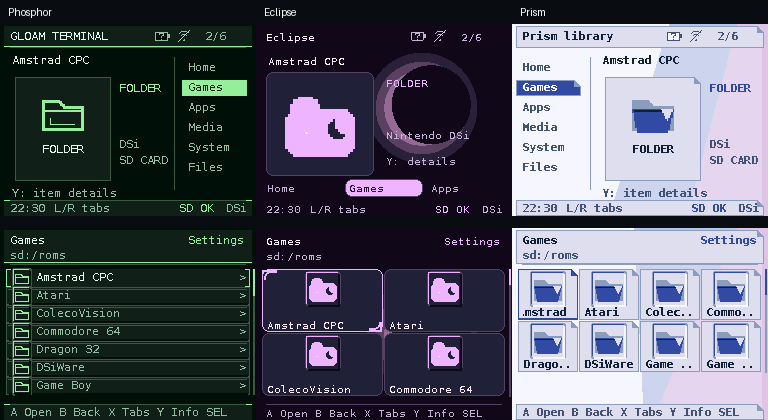
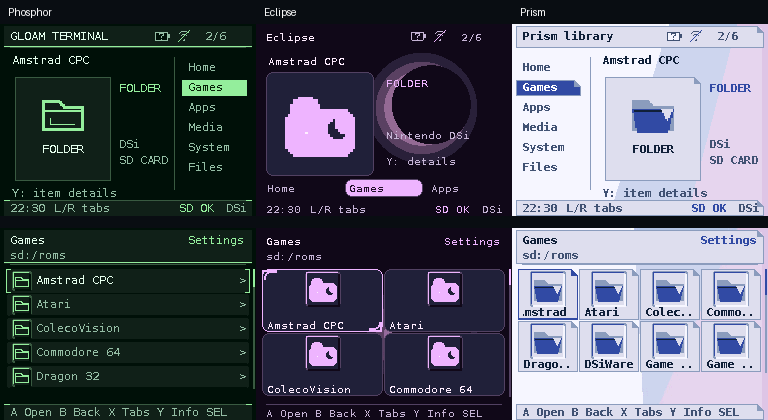
Simplify theme row surfaces and remove stacked selection bevels

Changed region(s): [[0.0, 0.619, 0.3438, 0.9286]]

diff --git a/tools/make_theme_components.py b/tools/make_theme_components.py
@@ -41,6 +41,12 @@ def component_image(name, style, colors):
         draw.line([(1,28),(1,1),(28,1)],fill=accent)
         draw.line([(3,30),(30,30),(30,3)],fill=bg,width=2)
         return image
+    if name == 'row':
+        # Quiet recessed face: avoid stacking several outlines under selection.
+        draw.rounded_rectangle((1,1,30,30), radius=4 if style == 'lunar' else 1,
+                               fill=surface)
+        draw.line((4,30,28,30),fill=bg)
+        return image
     selected = name in ('row-selected', 'card-selected')
     fill = accent if name == 'tab-selected' else surface
     edge = accent if selected or name == 'panel' else line
@@ -69,7 +75,8 @@ def component_image(name, style, colors):
             draw.line((1,30,30,30),fill=accent,width=2)
     else:
         draw.rounded_rectangle((0,0,31,31),radius=3,fill=fill,outline=edge)
-        draw.line([(2,28),(2,2),(28,2)],fill=accent if selected else line)
+        if name != 'row-selected':
+            draw.line([(2,28),(2,2),(28,2)],fill=accent if selected else line)
         draw.line([(3,30),(30,30),(30,3)],fill=bg,width=2)
     if name in ('row', 'row-selected') and style in ('lunar', 'retro'):
         # A shallow lit face and inset shadow remain legible at native row sizes.
